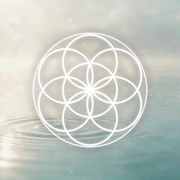
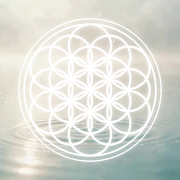
共通マークを生命の種からフラワー・オブ・ライフに変更(SMAサイトと統一)・アイコン更新
- index.html / zukan/index.html の sg-seed シンボルを19円のフラワー・オブ・ライフに差し替え(id は互換のため sg-seed のまま)
- portal-nav.js の SEED マークも同様に差し替え
- favicon.svg / favicon.png / apple-touch-icon.png / icon-192.png / icon-512.png を新マークで再生成

Claude-Session: https://claude.ai/code/session_0128PYWzwLc8eWn25BYyLZi1

diff --git a/index.html b/index.html
@@ -455,15 +455,12 @@
 </style>
 </head>
 <body>
-<!-- 神聖幾何学のマーク(線画・色は currentColor)。sg-seed=生命の種(共通マーク) / sg-cube=メタトロンキューブ(図鑑) / sg-vesica=ヴェシカ・パイシス(ガイダンス) / sg-merkaba=マカバ(夢診断) -->
+<!-- 神聖幾何学のマーク(線画・色は currentColor)。sg-seed=フラワー・オブ・ライフ(共通マーク・idは互換のため sg-seed のまま) / sg-cube=メタトロンキューブ(図鑑) / sg-vesica=ヴェシカ・パイシス(ガイダンス) / sg-merkaba=マカバ(夢診断) -->
 <svg width="0" height="0" style="position:absolute" aria-hidden="true">
   <symbol id="sg-seed" viewBox="0 0 100 100">
-    <g fill="none" stroke="currentColor" stroke-width="1.6">
-      <circle cx="50" cy="50" r="16"/>
-      <circle cx="50" cy="34" r="16"/><circle cx="50" cy="66" r="16"/>
-      <circle cx="36.1" cy="42" r="16"/><circle cx="63.9" cy="42" r="16"/>
-      <circle cx="36.1" cy="58" r="16"/><circle cx="63.9" cy="58" r="16"/>
-      <circle cx="50" cy="50" r="33" stroke-width="1.2"/>
+    <g fill="none" stroke="currentColor" stroke-width="1.25">
+      <circle cx="50" cy="50" r="11"/><circle cx="50" cy="61" r="11"/><circle cx="40.5" cy="55.5" r="11"/><circle cx="40.5" cy="44.5" r="11"/><circle cx="50" cy="39" r="11"/><circle cx="59.5" cy="44.5" r="11"/><circle cx="59.5" cy="55.5" r="11"/><circle cx="50" cy="72" r="11"/><circle cx="30.9" cy="61" r="11"/><circle cx="30.9" cy="39" r="11"/><circle cx="50" cy="28" r="11"/><circle cx="69.1" cy="39" r="11"/><circle cx="69.1" cy="61" r="11"/><circle cx="69.1" cy="50" r="11"/><circle cx="59.5" cy="66.5" r="11"/><circle cx="40.5" cy="66.5" r="11"/><circle cx="30.9" cy="50" r="11"/><circle cx="40.5" cy="33.5" r="11"/><circle cx="59.5" cy="33.5" r="11"/>
+      <circle cx="50" cy="50" r="33" stroke-width="1.1"/><circle cx="50" cy="50" r="35.5" stroke-width="0.8"/>
     </g>
   </symbol>
   <symbol id="sg-cube" viewBox="0 0 100 100">

diff --git a/portal-nav.js b/portal-nav.js
@@ -30,7 +30,7 @@
     {t:"Ameblo",    u:"https://ameblo.jp/michiyo-hikiyose/"},
     {t:"Substack",  u:"https://michiyospiritualcounsellor.substack.com/"}
   ];
-  const SEED = '<svg class="pn-sg" viewBox="0 0 100 100" aria-hidden="true"><g fill="none" stroke="currentColor" stroke-width="2.2"><circle cx="50" cy="50" r="16"/><circle cx="50" cy="34" r="16"/><circle cx="50" cy="66" r="16"/><circle cx="36.1" cy="42" r="16"/><circle cx="63.9" cy="42" r="16"/><circle cx="36.1" cy="58" r="16"/><circle cx="63.9" cy="58" r="16"/><circle cx="50" cy="50" r="33" stroke-width="1.6"/></g></svg>';
+  const SEED = '<svg class="pn-sg" viewBox="0 0 100 100" aria-hidden="true"><g fill="none" stroke="currentColor" stroke-width="1.7"><circle cx="50" cy="50" r="11"/><circle cx="50" cy="61" r="11"/><circle cx="40.5" cy="55.5" r="11"/><circle cx="40.5" cy="44.5" r="11"/><circle cx="50" cy="39" r="11"/><circle cx="59.5" cy="44.5" r="11"/><circle cx="59.5" cy="55.5" r="11"/><circle cx="50" cy="72" r="11"/><circle cx="30.9" cy="61" r="11"/><circle cx="30.9" cy="39" r="11"/><circle cx="50" cy="28" r="11"/><circle cx="69.1" cy="39" r="11"/><circle cx="69.1" cy="61" r="11"/><circle cx="69.1" cy="50" r="11"/><circle cx="59.5" cy="66.5" r="11"/><circle cx="40.5" cy="66.5" r="11"/><circle cx="30.9" cy="50" r="11"/><circle cx="40.5" cy="33.5" r="11"/><circle cx="59.5" cy="33.5" r="11"/><circle cx="50" cy="50" r="33" stroke-width="1.4"/><circle cx="50" cy="50" r="35.5" stroke-width="1"/></g></svg>';
 
   const me = document.currentScript;
   const D = (me && me.dataset) || {};

diff --git a/zukan/index.html b/zukan/index.html
@@ -202,12 +202,9 @@
 <body>
 <svg width="0" height="0" style="position:absolute" aria-hidden="true">
   <symbol id="sg-seed" viewBox="0 0 100 100">
-    <g fill="none" stroke="currentColor" stroke-width="1.6">
-      <circle cx="50" cy="50" r="16"/>
-      <circle cx="50" cy="34" r="16"/><circle cx="50" cy="66" r="16"/>
-      <circle cx="36.1" cy="42" r="16"/><circle cx="63.9" cy="42" r="16"/>
-      <circle cx="36.1" cy="58" r="16"/><circle cx="63.9" cy="58" r="16"/>
-      <circle cx="50" cy="50" r="33" stroke-width="1.2"/>
+    <g fill="none" stroke="currentColor" stroke-width="1.25">
+      <circle cx="50" cy="50" r="11"/><circle cx="50" cy="61" r="11"/><circle cx="40.5" cy="55.5" r="11"/><circle cx="40.5" cy="44.5" r="11"/><circle cx="50" cy="39" r="11"/><circle cx="59.5" cy="44.5" r="11"/><circle cx="59.5" cy="55.5" r="11"/><circle cx="50" cy="72" r="11"/><circle cx="30.9" cy="61" r="11"/><circle cx="30.9" cy="39" r="11"/><circle cx="50" cy="28" r="11"/><circle cx="69.1" cy="39" r="11"/><circle cx="69.1" cy="61" r="11"/><circle cx="69.1" cy="50" r="11"/><circle cx="59.5" cy="66.5" r="11"/><circle cx="40.5" cy="66.5" r="11"/><circle cx="30.9" cy="50" r="11"/><circle cx="40.5" cy="33.5" r="11"/><circle cx="59.5" cy="33.5" r="11"/>
+      <circle cx="50" cy="50" r="33" stroke-width="1.1"/><circle cx="50" cy="50" r="35.5" stroke-width="0.8"/>
     </g>
   </symbol>
 </svg>
